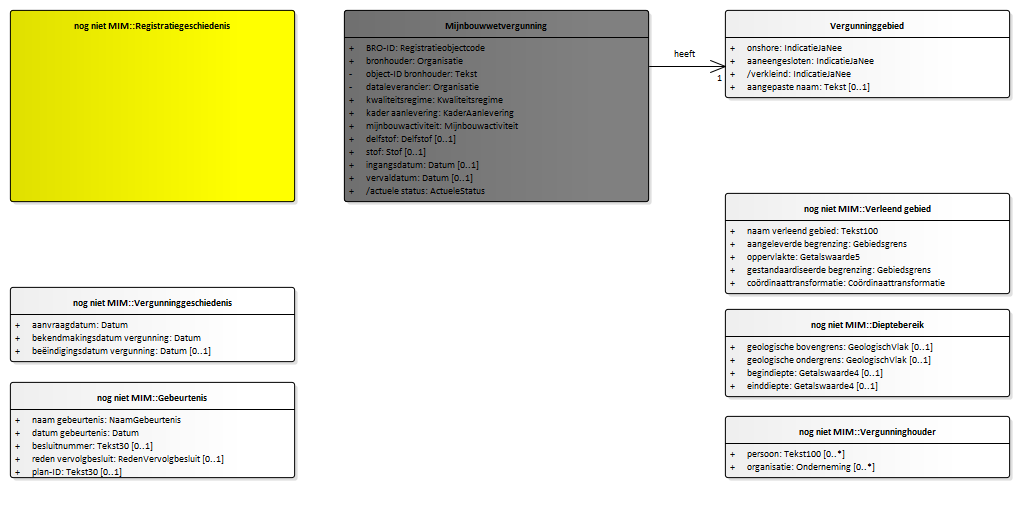
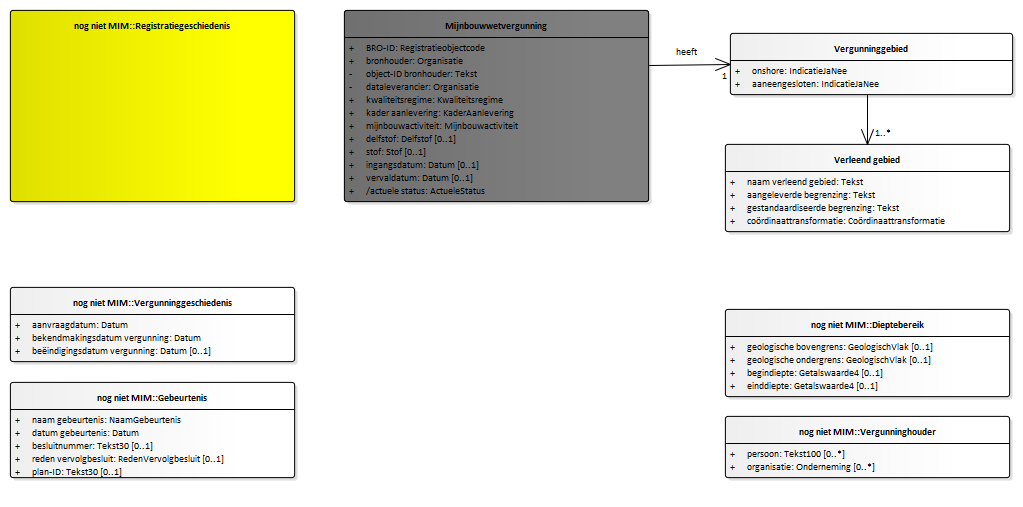
Conceptualmodel-EPLconceptueel-0.1-1-20201106-20201130-230746

diff --git a/data/EPL-cat.msword.html b/data/EPL-cat.msword.html
@@ -15,7 +15,7 @@
    <body>
       <p>Conceptual model/EPL conceptueel/20201106</p>
       <p>Imvertor: 1.62.1</p>
-      <p>Model release: Conceptualmodel-EPLconceptueel-0.1-1-20201106-20201118-103337</p>
+      <p>Model release: Conceptualmodel-EPLconceptueel-0.1-1-20201106-20201130-230746</p>
       <hr>
       <section>
          <h1>Artikel 1 Definitie van registratieobject, entiteiten en attributen</h1>
@@ -42,7 +42,7 @@
          <section>
             <h2>Het domeinmodel</h2>
             <section id="">
-               <div class="imageinfo overview"><img src="Images/EAID_4B6A330A_F5EC_4482_B697_367B249DB287.png" usemap="#imagemap-EAID_4B6A330A_F5EC_4482_B697_367B249DB287" alt="Diagram "><map name="imagemap-EAID_4B6A330A_F5EC_4482_B697_367B249DB287"><area shape="rect" alt="Vergunninggebied" coords="725,10,1010,98" href="#graph_EAID_55848D58_82A4_4b0e_AE8B_281669C7CA59"><area shape="rect" alt="Mijnbouwwetvergunning" coords="344,10,649,202" href="#graph_EAID_79464324_589F_4408_BD2E_501CBB622EC8"></map><p><b>Domeinmodel BRO mijnbouwwetvergunning</b></p>
+               <div class="imageinfo overview"><img src="Images/EAID_4B6A330A_F5EC_4482_B697_367B249DB287.png" usemap="#imagemap-EAID_4B6A330A_F5EC_4482_B697_367B249DB287" alt="Diagram "><map name="imagemap-EAID_4B6A330A_F5EC_4482_B697_367B249DB287"><area shape="rect" alt="Verleend gebied" coords="725,144,1010,232" href="#graph_EAID_FE57740F_46E2_4939_95A1_191BFFDB4F51"><area shape="rect" alt="Vergunninggebied" coords="730,33,1013,95" href="#graph_EAID_55848D58_82A4_4b0e_AE8B_281669C7CA59"><area shape="rect" alt="Mijnbouwwetvergunning" coords="344,10,649,202" href="#graph_EAID_79464324_589F_4408_BD2E_501CBB622EC8"></map><p><b>Domeinmodel BRO mijnbouwwetvergunning</b></p>
                </div>
             </section>
          </section>
@@ -526,6 +526,8 @@
                      </section>
                </section><a class="anchor" id="graph_EAID_55848D58_82A4_4b0e_AE8B_281669C7CA59"></a><a class="anchor" id="global_class_DomeinmodelBROEPL_Vergunninggebied"></a><section id="global_class_DomeinmodelBROEPL_Vergunninggebied">
                   <h3>   Vergunninggebied</h3>
+                  <div class="imageinfo "><img src="Images/EAID_14E9DD49_EE4E_4b13_B8AF_D211D9DFB725.png" usemap="#imagemap-EAID_14E9DD49_EE4E_4b13_B8AF_D211D9DFB725" alt="Diagram "><map name="imagemap-EAID_14E9DD49_EE4E_4b13_B8AF_D211D9DFB725"><area shape="rect" alt="Vergunninggebied" coords="10,10,207,98" href="#graph_EAID_55848D58_82A4_4b0e_AE8B_281669C7CA59"></map><p><b></b></p>
+                  </div>
                   <table style="width: 100%;">
                      <colgroup style="width: 30%;"></colgroup>
                      <colgroup style="width: 70%;"></colgroup>
@@ -624,8 +626,27 @@
                            </tr>
                         </tbody>
                      </table>
-                     </section><a class="anchor" id="detail_attribute_DomeinmodelBROEPL_Vergunninggebied_verkleind"></a><section id="detail_attribute_DomeinmodelBROEPL_Vergunninggebied_verkleind">
-                     <h4>  verkleind</h4>
+                     </section>
+               </section><a class="anchor" id="graph_EAID_FE57740F_46E2_4939_95A1_191BFFDB4F51"></a><a class="anchor" id="global_class_DomeinmodelBROEPL_Verleendgebied"></a><section id="global_class_DomeinmodelBROEPL_Verleendgebied">
+                  <h3>   Verleend gebied</h3>
+                  <table style="width: 100%;">
+                     <colgroup style="width: 30%;"></colgroup>
+                     <colgroup style="width: 70%;"></colgroup>
+                     <tbody>
+                        <tr>
+                           <th>Type gegeven</th>
+                           <td>Entiteit</td>
+                        </tr>
+                        <tr>
+                           <th>Definitie</th>
+                           <td>
+                              
+                              <p>Het gebied of een gebiedsdeel waarvoor de vergunning verleend is.</p>
+                              </td>
+                        </tr>
+                     </tbody>
+                  </table><a class="anchor" id="detail_attribute_DomeinmodelBROEPL_Verleendgebied_naamverleendgebied"></a><section id="detail_attribute_DomeinmodelBROEPL_Verleendgebied_naamverleendgebied">
+                     <h4>  naam verleend gebied</h4>
                      
                      <table style="width: 100%;">
                         <colgroup style="width: 30%;"></colgroup>
@@ -633,13 +654,13 @@
                         <tbody>
                            <tr>
                               <th>Type gegeven</th>
-                              <td>Attribuut van Vergunninggebied</td>
+                              <td>Attribuut van Verleend gebied</td>
                            </tr>
                            <tr>
                               <th>Definitie</th>
                               <td>
                                  
-                                 <p>De aanduiding die aangeeft of het vergunninggebied na verlening verkleind is.</p>
+                                 <p>De herkenbare naam die het gebied bij verlening heeft gekregen.</p>
                                  </td>
                            </tr>
                            <tr>
@@ -656,16 +677,12 @@
                            </tr>
                            <tr>
                               <th>&nbsp;&nbsp;Naam</th>
-                              <td>IndicatieJaNee</td>
-                           </tr>
-                           <tr>
-                              <th>&nbsp;&nbsp;Type</th>
-                              <td>Waardelijst niet uitbreidbaar</td>
+                              <td>Tekst 100</td>
                            </tr>
                         </tbody>
                      </table>
-                     </section><a class="anchor" id="detail_attribute_DomeinmodelBROEPL_Vergunninggebied_aangepastenaam"></a><section id="detail_attribute_DomeinmodelBROEPL_Vergunninggebied_aangepastenaam">
-                     <h4>  aangepaste naam</h4>
+                     </section><a class="anchor" id="detail_attribute_DomeinmodelBROEPL_Verleendgebied_aangeleverdebegrenzing"></a><section id="detail_attribute_DomeinmodelBROEPL_Verleendgebied_aangeleverdebegrenzing">
+                     <h4>  aangeleverde begrenzing</h4>
                      
                      <table style="width: 100%;">
                         <colgroup style="width: 30%;"></colgroup>
@@ -673,13 +690,14 @@
                         <tbody>
                            <tr>
                               <th>Type gegeven</th>
-                              <td>Attribuut van Vergunninggebied</td>
+                              <td>Attribuut van Verleend gebied</td>
                            </tr>
                            <tr>
                               <th>Definitie</th>
                               <td>
                                  
-                                 <p>De nieuwe naam van het vergunninggebied.</p>
+                                 <p>De begrenzing van het gebied op het aardoppervlak, zoals die is aangeleverd aan de
+                                    basisregistratie ondergrond.</p>
                                  </td>
                            </tr>
                            <tr>
@@ -688,7 +706,7 @@
                            </tr>
                            <tr>
                               <th>Kardinaliteit</th>
-                              <td>0..1</td>
+                              <td>1</td>
                            </tr>
                            <tr>
                               <th>Domein</th>
@@ -696,7 +714,81 @@
                            </tr>
                            <tr>
                               <th>&nbsp;&nbsp;Naam</th>
-                              <td>Tekst 100</td>
+                              <td>Tekst </td>
+                           </tr>
+                        </tbody>
+                     </table>
+                     </section><a class="anchor" id="detail_attribute_DomeinmodelBROEPL_Verleendgebied_gestandaardiseerdebegrenzing"></a><section id="detail_attribute_DomeinmodelBROEPL_Verleendgebied_gestandaardiseerdebegrenzing">
+                     <h4>  gestandaardiseerde begrenzing</h4>
+                     
+                     <table style="width: 100%;">
+                        <colgroup style="width: 30%;"></colgroup>
+                        <colgroup style="width: 70%;"></colgroup>
+                        <tbody>
+                           <tr>
+                              <th>Type gegeven</th>
+                              <td>Attribuut van Verleend gebied</td>
+                           </tr>
+                           <tr>
+                              <th>Definitie</th>
+                              <td>
+                                 
+                                 <p>De begrenzing van het gebied op het aardoppervlak zoals die door de basisregistratie
+                                    ondergrond is getransformeerd.</p>
+                                 </td>
+                           </tr>
+                           <tr>
+                              <th>Juridische status</th>
+                              <td>Authentiek</td>
+                           </tr>
+                           <tr>
+                              <th>Kardinaliteit</th>
+                              <td>1</td>
+                           </tr>
+                           <tr>
+                              <th>Domein</th>
+                              <td></td>
+                           </tr>
+                           <tr>
+                              <th>&nbsp;&nbsp;Naam</th>
+                              <td>Tekst </td>
+                           </tr>
+                        </tbody>
+                     </table>
+                     </section><a class="anchor" id="detail_attribute_DomeinmodelBROEPL_Verleendgebied_cordinaattransformatie"></a><section id="detail_attribute_DomeinmodelBROEPL_Verleendgebied_cordinaattransformatie">
+                     <h4>  coördinaattransformatie</h4>
+                     
+                     <table style="width: 100%;">
+                        <colgroup style="width: 30%;"></colgroup>
+                        <colgroup style="width: 70%;"></colgroup>
+                        <tbody>
+                           <tr>
+                              <th>Type gegeven</th>
+                              <td>Attribuut van Verleend gebied</td>
+                           </tr>
+                           <tr>
+                              <th>Definitie</th>
+                              <td>
+                                 
+                                 <p>De methode die de basisregistratie ondergrond heeft gebruikt voor het omzetten van
+                                    de aangeleverde begrenzing.</p>
+                                 </td>
+                           </tr>
+                           <tr>
+                              <th>Juridische status</th>
+                              <td>Authentiek</td>
+                           </tr>
+                           <tr>
+                              <th>Kardinaliteit</th>
+                              <td>1</td>
+                           </tr>
+                           <tr>
+                              <th>Domein</th>
+                              <td></td>
+                           </tr>
+                           <tr>
+                              <th>&nbsp;&nbsp;Naam</th>
+                              <td>Coördinaattransformatie</td>
                            </tr>
                         </tbody>
                      </table>
